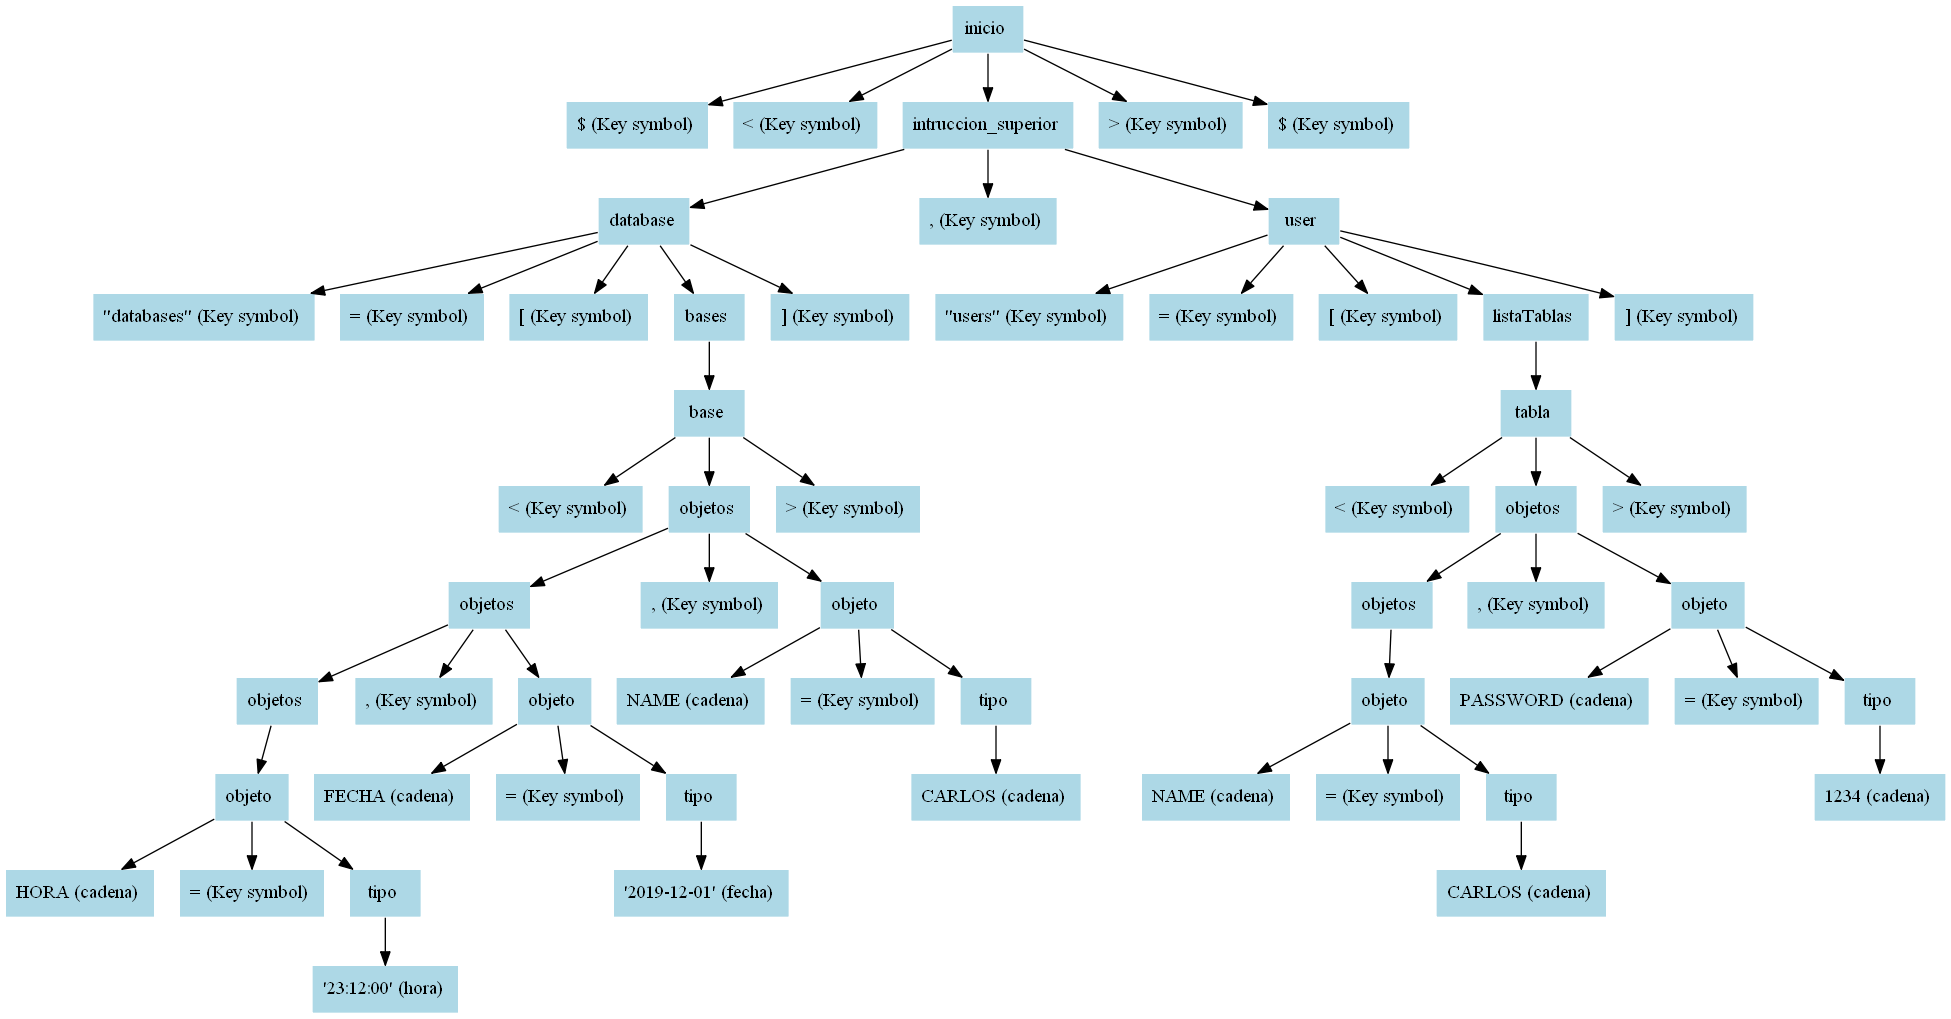
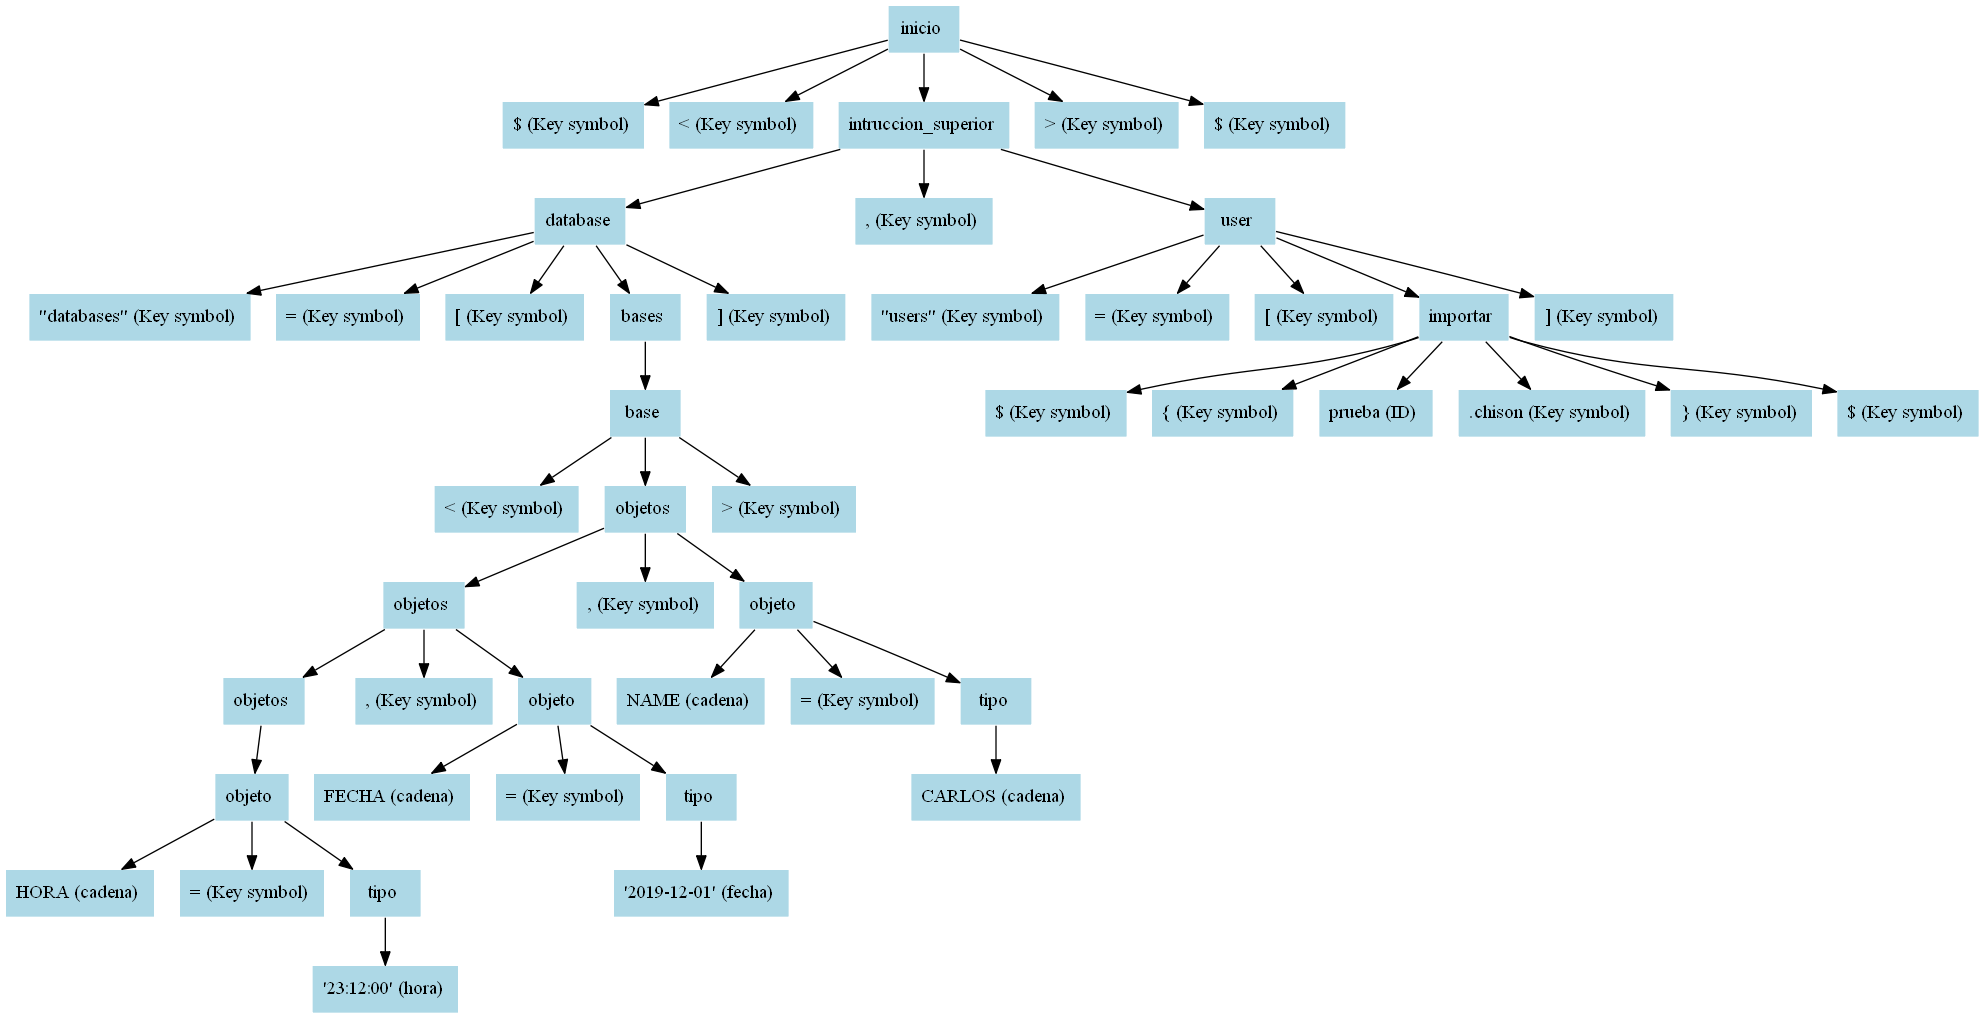
Se agrego el import en usuarios en general

diff --git a/chat-teacher-server/CHISON/Gramatica/SintacticoChison.cs b/chat-teacher-server/CHISON/Gramatica/SintacticoChison.cs
@@ -71,11 +71,22 @@ namespace cql_teacher_server.CHISON.Gramatica
 
                     case "user":
 
-                        string usuarioActual = "";
                         if(raiz.ChildNodes.Count() == 5)
                         {
+                            string token1 = raiz.ChildNodes.ElementAt(3).ToString().Split(' ')[0].ToLower();
                             AnalizarUsuario analisis = new AnalizarUsuario();
-                            analisis.analizar(raiz.ChildNodes.ElementAt(3)); 
+                            if (token1.Equals("importar"))
+                            {
+                                
+                                string direccion = raiz.ChildNodes.ElementAt(3).ChildNodes.ElementAt(2).ToString().Split('(')[0];
+                                direccion = direccion.TrimEnd();
+                                direccion += ".chison";
+                                
+                                object res = analizarImport(direccion);
+                                if (res == null) System.Diagnostics.Debug.WriteLine("ES NULO ");
+
+                                if (res != null) analisis.analizar((ParseTreeNode)res);
+                            }else analisis.analizar(raiz.ChildNodes.ElementAt(3)); 
                         }
 
 
@@ -243,7 +254,7 @@ namespace cql_teacher_server.CHISON.Gramatica
                     if (arbol.ParserMessages.Count() < 1)
                     {
 
-                        return raiz;
+                        return raiz.ChildNodes.ElementAt(0);
 
                     }
 

diff --git a/chat-teacher-server/CHISON/Gramatica/GramaticaChison.cs b/chat-teacher-server/CHISON/Gramatica/GramaticaChison.cs
@@ -75,7 +75,9 @@ namespace cql_teacher_server.CHISON.Gramatica
                        | baseU;
 
             user.Rule = USERS + IGUAL + LLAVEIZQ + LLAVEDER
-                       |USERS + IGUAL + LLAVEIZQ + listaTablas + LLAVEDER;
+                       |USERS + IGUAL + LLAVEIZQ + listaTablas + LLAVEDER
+                       | USERS + IGUAL + LLAVEIZQ + importar + LLAVEDER
+                       ;
 
             baseU.Rule = MENOR + objetos + MAYOR;
 
